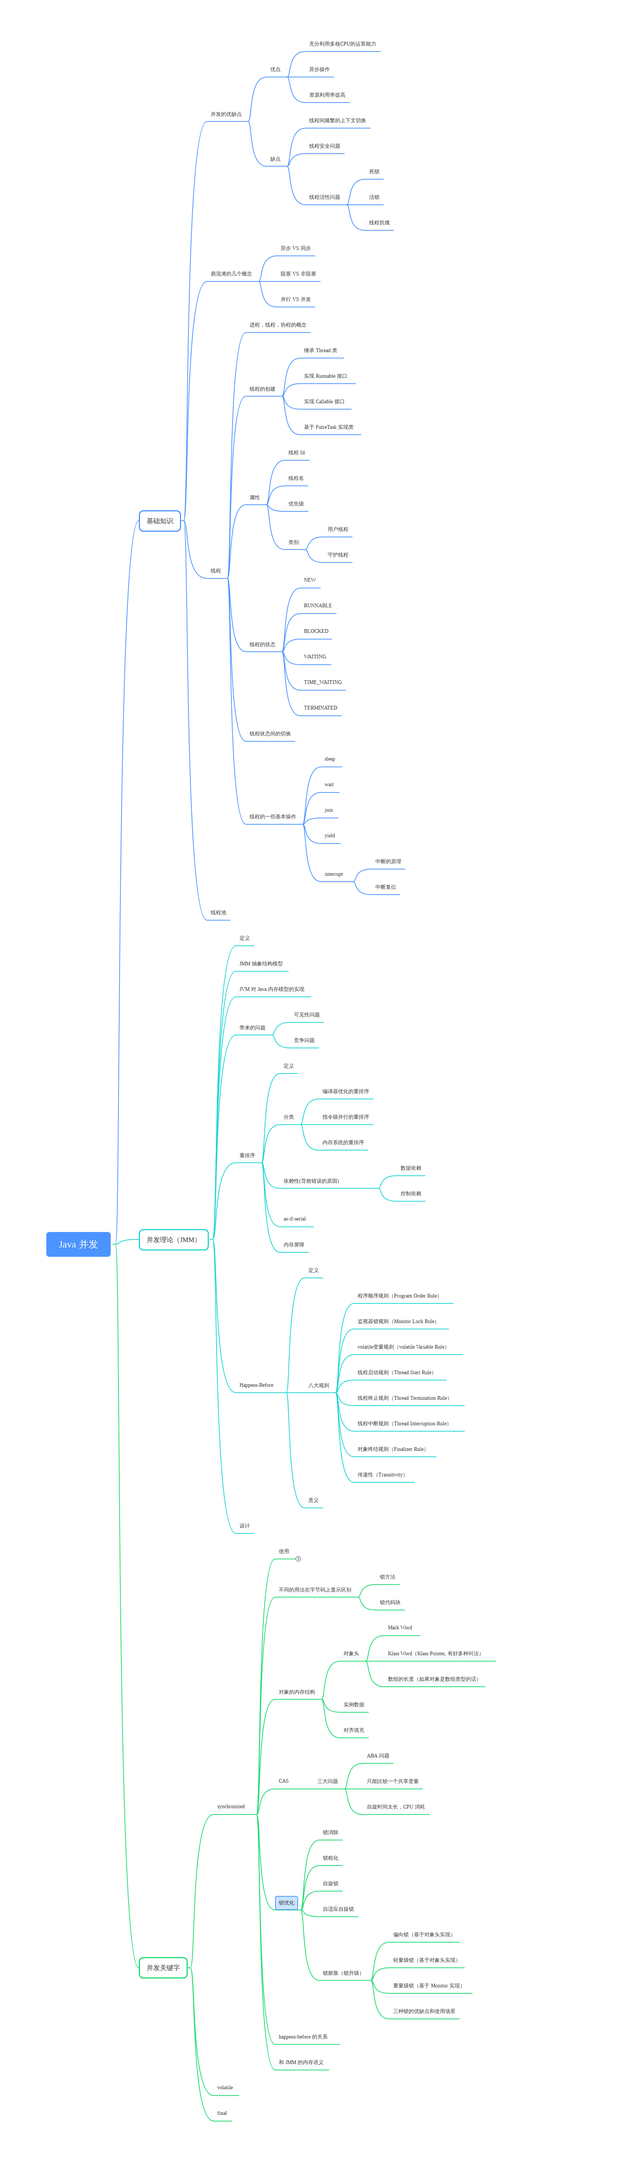
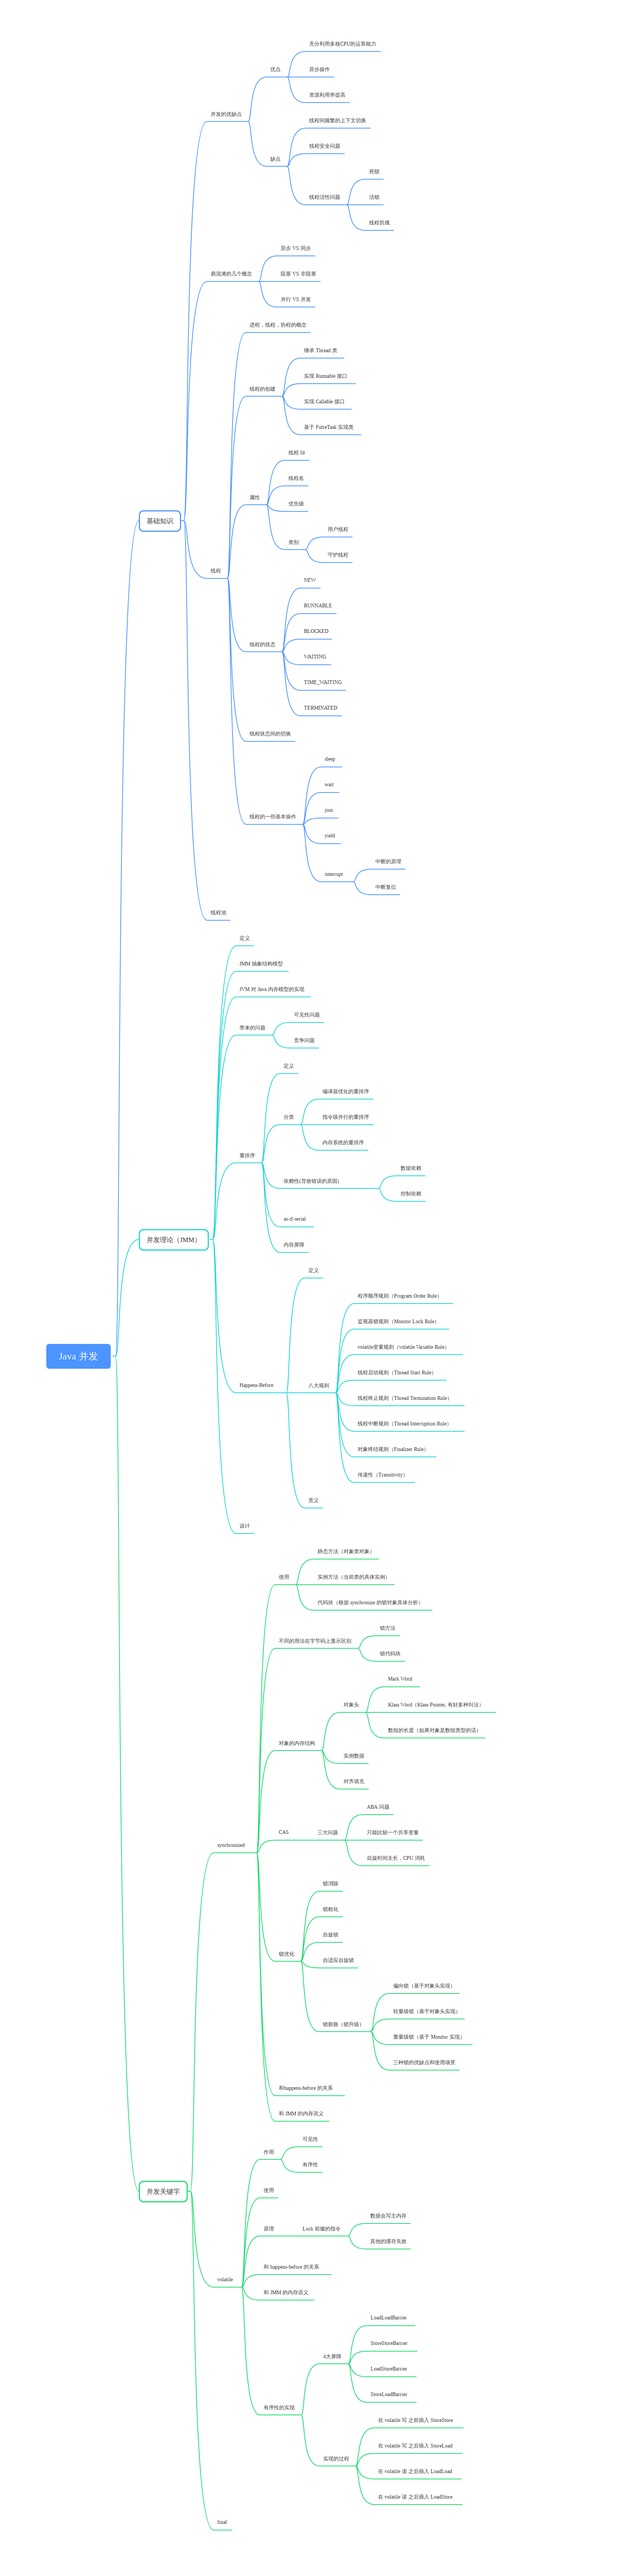
volatile

diff --git a/Java/并发体系/05.volatile 关键字.md b/Java/并发体系/05.volatile 关键字.md
@@ -1,111 +1,223 @@
-# 05. volatile 关键字
+# 06. final 关键字
 
 ## 1. 作用
->1. 保证了不同线程对这个变量进行操作时的可见性，即一个线程修改了某个变量的值，这新值对其他线程来说是立即可见的。
->2. 禁止进行指令重排序
+>1. 可以修饰变量，方法，类，其修饰的内容一旦赋值了就不允许修改了
+>2. 在并发中, 隐形地对重排序的控制
 
 ## 2. 使用
-```java
-public class Demo {
-    // 直接修饰 类中的属性
-    private volatile String name;
-}
+final 可以修饰变量，方法，类。当其修饰不同的地方，将有不同的效果
 
-```
+### 2.1 修饰变量
 
-## 3. 原理
-```java
-instance = new Singleton();
-```
-生成的汇编指令中
-| 是否被 volatile 修饰 | 指令  |
-| :-: |:-: |
-| instance | 0x01a3de1d: movb $0x0,0x1104800(%esi); |
-| instance  | 0x01a3de1d: movb $0x0,0x1104800(%esi); <br/>  0x01a3de24: **lock** addl $0x0,(%esp); |
+作用：变量一旦声明了，必须进行赋值，同时保证后续无法修改，数据引用类型也是，保证了引用地址不被修改。
 
-我们可以发现 被 volatile 修饰的变量进行写操作的时候会多第二行汇编代码。这行代码里面有一个 lock 的前缀的指令。lock 前缀的指令在多核处理器的作用下，具有
->1. 将当前处理器缓存行的数据会写回到系统内存
->2. 这个写回内存的操作会引起在其他 CPU 里缓存了该内存地址的数据无效
+在 Java 中，我们的变量可以根据
+>1. 所在的位置的不同分为： 成员变量(类的属性) 和 局部变量
+>2. 根据变量的类型的不同分为：基础数据类型变量 和 引用类型变量
 
-处理器为了提高处理速度，不直接和内存进行通讯，而是先将系统内存的数据读到内部缓存（L1,L2 或其他）后再进行操作，但操作完之后不知道何时会写到内存，如果对声明了 Volatile 变量进行写操作，JVM 就会向处理器发送一条 **Lock 前缀的指令**，将这个变量所在**缓存行**的数据写回到系统内存。但是就算写回到内存，如果其他处理器缓存的值还是旧的，再执行计算操作就会有问题，所以在多处理器下，为了保证各个处理器的缓存是一致的，就会实现**缓存一致性协议**，每个处理器通过**嗅探在总线上传播的数据来检查自己缓存的值是不是过期了**，当处理器发现自己缓存行对应的内存地址被修改，就会将当前处理器的缓存行设置成**无效状态**，当处理器要对这个数据进行修改操作的时候，会强制重新从系统内存里把数据读到处理器缓存里。
 
-从上面的结论能知道
+##### 2.1.1 成员变量(属性) vs 局部变量
 
- >1. volatile 修饰的变量，在对其写的时候，会在后面加多一个 Lock 前缀的指令
- >2. Lock 前缀的这个指令，会导致变量的最新值刷新到主内存，通过缓存一致性协议实现的
- >3. 回写到主内存的数据会导致其他处理器的缓存失效，使其重新到主内存读取最新的值
+* 成员变量  
 
- 
-## 4. volatile 和 happens-before 的关系
-
-volatile 变量原则：对一个 volatile 变量的写操作 happens-before 于后续每一个针对该变量的读操作。
+成员变量可以大体分成 2 种：**类变量**(通过 static 关键字修饰) 和 **类实例变量**(普通的声明)。  
+其中：类变量的赋值时机有 2 个：**直接赋值** 和 **静态代码块赋值**。  
 
 ```java
-public class Demo {
+public class FinalDemo {
  
- private int a = 0;
+ private static Interger a = 123;
  
- private volatile boolean flag = false;
- 
- public void write() {
-    // 1
-    a = 1;
-    // 2
-    flag = true;
- }
- 
- public void read() {
-    // 3
-    if (flag) {
-        // 4
-        int num = a;
-    }   
+ static {
+     a = 1232;
  }
 }
 ```
 
-![Alt 'Concurrency happens before关系推导'](https://s2.ax1x.com/2020/01/13/lHoVC8.png)
+注：当然类变量可以在构造函数内进行赋值
+```java
+public class FinalDemo {
+    public static Integer a;
+    public FinalDemo() {
+        a = 123;
+    }
+}
+```
+上面的代码是没问题的，但是后续我们想要直接获取到 a 的值(前面没有任何对这个类进行创建)，`FinalDemo.a` 会发现 `a = null`。因为这时候，类的构造函数是不会执行的。所以这种不作为赋值的时机
 
-假设线程 A 执行完 write 方法， 线程 B 执行完 read 方法。
-通过 happens-before 的程序顺序原则，我们可以推导出黑色箭头的执行顺序，
-按照 volatile 原则可以指定 红色箭头的执行顺序。如果存在 A happens-before B，那么 A 之前的操作对于 B 可见，所以可以推导出蓝色的结果。得到的结论就是：volatile 变量的修改，能够立即被其他线程获取到。
+类实例变量的赋值时机有 3 个：**直接赋值**，**非静态代码块** 和 **构造函数赋值**
+```java
+public class FinalDemo {
+    
+    private Integer a = 123;
+    
+    {
+        a = 1234;
+    }
+    
+    public FinalDemo() {
+        a = 12345;
+    }
+    // TOOD: 可以猜一下这里，new FinalDemo 后，a 的值是多少，为什么
+}
+```
 
-## 5. volatile 和 JMM 的关系
-还是上面的代码
+变量的说明完了，现在进入主题, 上面的 2 种变量类型，现在在前面加上 `final` 进行修饰。
 
->1. 线程 A 先从主内存读取到 a = 0，flag = false 到自己的 本地内存。
->2. 将 a + 1, 把 a = 2, 放到 本地内存
->3. 将 flag = true, 放到本地内存，同时在 volatile 的作用下，将当前相关操作的本地内存
-值刷新到主内存，并且间接的使得其他线程的本地内存失效
->4. 线程 B 需要的数据失效了，从主内存读取，从而达到了 A 修改的值，B 能立即读到
+被 final 修饰的变量必须被赋值，同时赋值后不允许修改，所以：  
+类变量：  
+>1. 构造方法内赋值，会报错
+>2. 直接赋值和静态代码块赋值必须存在一个
+>3. 当直接赋值和静态代码块赋值同时存在，静态代码块处会报错(直接赋值的优先级高，同时 final 修饰的变量赋值过一次后，就不能再修改了)
 
-## 6. 有序性的实现
-
-我们知道, 在执行程序时，为了提高性能，编译器和处理器常常会对指令做重排序。有时候重排序会导致执行结果的不正确。所以在有些情况下，JMM 为了结果的执行准确性，会禁止指令的重排序。实现的方式就是通过内存屏障实现的。
-
-JMM把内存屏障指令分为4类：
-| 屏障类型| 说明 | 实例 |
-| :-: | :-: | :-: |
-| LoadLoadBarriers| Load1; LoadLoadBarriers; Load2 | 确保 Load1 数据的读取 在 load2 及 后续指令的读取之前|
-| StoreStoreBarriers | Store1; StoreStoreBarriers; Store2; | 确保 Store1 数据的写入(刷新到主内存) 在 Store2 及后续指令的读取之前 |
-|LoadStoreBarriers| Load1; LoadStoreBarriers; Store2; | 确保 Load1 数据的读取 在Store2 及后续指令的写入之前 |
-| StoreLoadBarriers | Store1; StoreLoadBarriers; Load2; | 确保 Store2 数据的写入 在 Load2 及后续指令的读取之前 |
-
-为了实现volatile内存语义时，编译器在生成字节码时，会在指令序列中插入内存屏障来禁止特定类型的**处理器重排序**。。对于编译器来说，发现一个最优布置来最小化插入屏障的总数几乎是不可能的，为此，JMM采取了保守策略：
-
->1. 在每个volatile写操作的**前面**插入一个StoreStore屏障
->2. 在每个volatile写操作的**后面**插入一个StoreLoad屏障
->3. 在每个volatile读操作的**后面**插入一个LoadLoad屏障
->4. 在每个volatile读操作的**后面**插入一个LoadStore屏障
-
-对于 volatile 的写是分别在前后加入 1 个内存屏障，而读是在后面加入 2 个内存屏障。  
-分析：
+实例变量：
+>1. 直接赋值，代码块和构造方法都可以赋值
+>2. 三种构造方式，只能存在一种，优先级从 直接赋值 > 代码块赋值 > 构造方法
 
 
+* 局部变量
+```java
+// 赋值方式一
+public void method(String str1) {
+    // 赋值方式二
+    final String str2 = "123":
+    
+    // 赋值方式三
+    final String str3;
+    str3 = "1234";
+}
+```
+由上面的代码可以发现，局部变量的赋值方式有 3 种
+>1. 方法参数的赋值
+>2. 声明的同时直接赋值
+>3. 声明后, 在进行赋值(只有第一次赋值成功，后续的赋值都会报错)
+
+
+##### 2.1.2 基础数据类型变量 vs 引用数据类型
+>1. 基础数据类型被 final 修饰，一旦赋值后，就无法修改了。
+>2. 引用数据类型被 final 修饰，一旦赋值后，引用的地址是不允许修改的，但是引用的对象的属性是可以修改的
+
+```java
+public void method() {
+    
+    final Demo demo = new Demo();
+    
+    // 这一步会报错，引用的地址是不可以修改
+    demo = new Demo();
+    
+    // 但是内部的属性进行修改是没问题的
+    demo.setName(123);
+}
+```
+
+##### 2.1.3 "宏变量"  
+可以理解为是一个常量，在代码里面使用到了宏变量的话，编译器会把他变成一个常量。  
+将一个变量变为宏变量
+>1. 使用 final 进行修饰
+>2. 定义时，直接赋值，既直接设定了初始值
+>3. 指定的初始值能够确定。
+
+```java
+// 这样无法变为宏变量
+private final Person persion = new Person();
+
+// 这样也无法成为宏变量
+private final long num = System.currentTimeMillis();
+
+// 唯一确定了
+private final long num2 = 1232L;
+```
+
+### 2.2 修饰方法
+
+作用：final 修饰的方法无法被子类重写
+
+```java
+public class Demo {
+    public final void test() {}
+}
+
+public class Demo2 extends Demo {
+    
+    // 这里会报异常
+    public void test() {}
+    
+    // 重载的话是可以的
+    public void test(String test){}
+}
+```
+
+### 2.3 修饰类
+作用：final 修饰的类无法被继承
+
+```java
+public final class Demo{}
+
+// 报异常
+public Demo2 extends Demo{}
+```
+
+## 3. final 域的重排序情况
+
+```java
+public class Demo {
+    
+    private static Demo demo;
+    
+    // 普通域
+    private int a;
+    // final 域
+    private final int b;
+    
+    public Demo() {
+        a = 1;  // 1 写普通域
+        b = 2;  // 2 写 final 域
+    }
+    
+    public static void write() {
+        demo = new Demo();
+    }
+    
+    public static void read() {
+        Demo demo2 = demo;  // 3 读对象引用
+        int a = demo2.a;  // 4 读普通域
+        int b = demo2.b;  // 5 读 final 域
+    }
+}
+```
+假设线程 A 在执行 write 方法，线程 B 执行 read 方法。
+
+对于一个对象的创建既 `Object obj = new Object()`，可以拆分为下面 3 个原子操作
+>1. objRef = allocate(Object.class) //分配对象所需要的存储空间
+>2. invokeConstructor(objRef)  //初始对象的属性
+>3. instance = objRef;  // 将对象引用赋给变量
+
+在指令重排序的作用下，上面的过程可能会出现 1 -> 3 -> 2 等情况。
+
+### 3.1 final 域的写
+final 相关的重排序规则: 禁止对 final 域的写重排序到构造函数之外。这个规则包含 2 个方面
+>1. JMM 禁止编译器把 final 域的写重排序到构造函数之外
+>2. 编译器会在 final 域写之后，构造函数 return 之前，插入一个 StoreStore 屏障, 这个屏障会禁止处理器把 final 域的写重排序到构造函数之外。
+
+上面代码执行的一种可能
+![Alt 'final域写可能的存在的执行时序'](https://s2.ax1x.com/2020/01/15/lX486U.png)
+由于上面的第 1，2 没有依赖关系，所以普通域 a 的赋值可能会重排序到构造函数之外。B 线程存在读到 a 的值是初始值(0)的情况, 这时就出现错误了。而 final 域的变量 b, 在禁止 final 修饰的变量重排序到构造函数之外, 从而 b 能够正确赋值，线程 B 能够读取到 final 变量初始后的值。
+
+因此，写 final 域的重排序规则可以确保：在对象引用为任意线程可见之前，对象的 final 域已经被正确初始化过了，而普通域就不具有这个保障。
 
 
 
+
+
+
+### 使用实例
+不变类：创建这个类的实例后, 该类的实例变量是不可变的。满足以下条件就是不变类
+>1. 使用 private 或者 final 修饰符来修饰该类的成员变量
+>2. 提供带参的构造器用于初始化类的成员变量
+>3. 仅为该类的成员变量提供getter方法，不提供setter方法，因为普通方法无法修改fina修饰的成员变量
+>4. 如果有必要就重写 Object 类 的 hashCode() 和 equals() 方法，应该保证用 equals() 判断相同的两个对象其 HashCode 值也是相等的
+
+在 Jdk 中，不变类有：String 和 8 个包装类型。
 
 ## 参考
-[聊聊并发（一）——深入分析 Volatile 的实现原理](https://www.infoq.cn/article/ftf-java-volatile)  
-[彻底理解volatile](https://www.codercc.com/post/e43d1141.html)
+[你以为你真的了解final吗？](https://www.codercc.com/post/41b25388.html)
